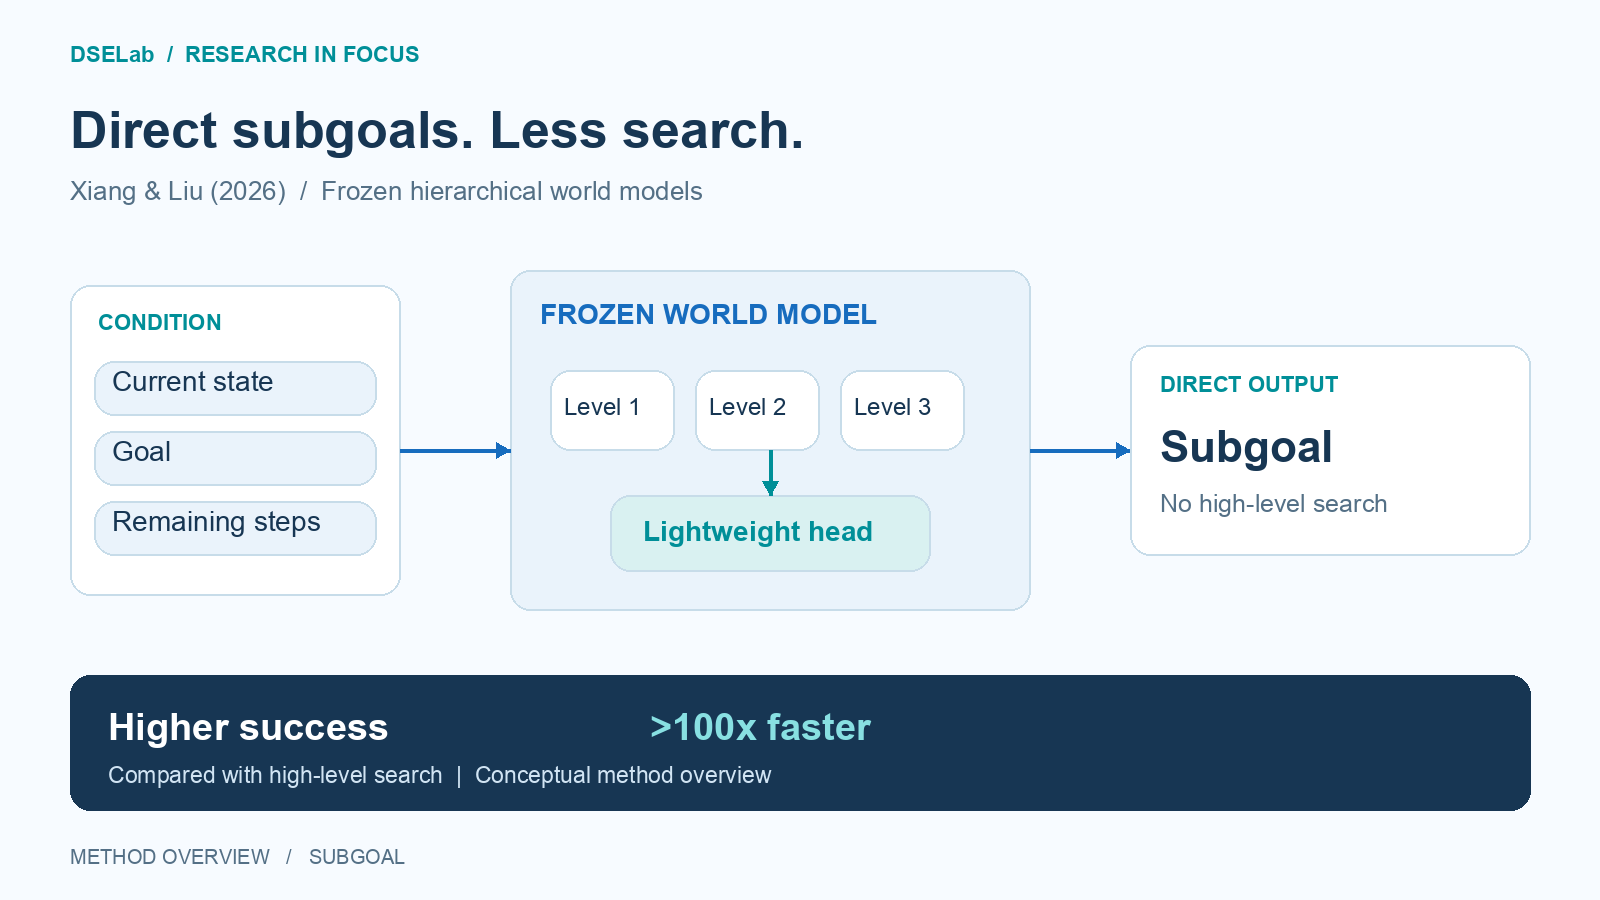
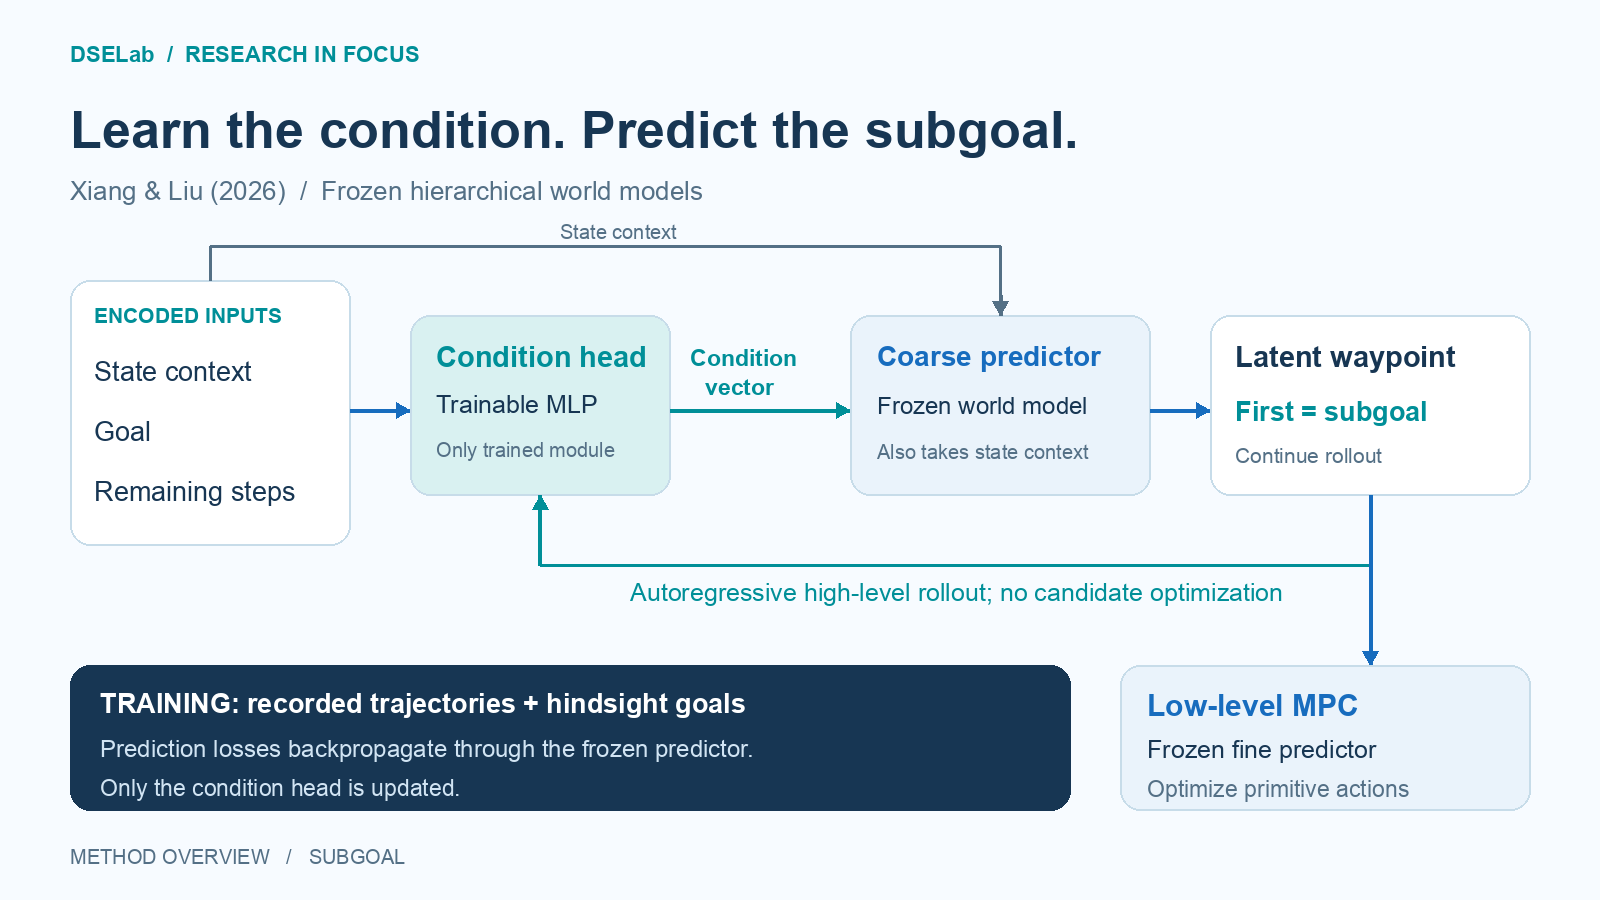
Correct subgoal diagram and speedup claims to match arXiv v2; remove title brackets

diff --git a/index.html b/index.html
@@ -780,8 +780,8 @@
           </div>
           <div class="latest-update" style="margin-top:14px; padding:12px 14px; border:1px solid var(--line); border-radius:12px; background:linear-gradient(135deg, rgba(14,165,233,0.12), rgba(34,197,94,0.08));">
             <strong>最新更新:</strong>
-            <div>2026/10/23　Xiang &amp; Liu の working paper「<a href="https://doi.org/10.48550/arXiv.2610.26179" class="pub-link" target="_blank" rel="noopener noreferrer">Learning Goal-Conditioned Subgoals through Frozen Hierarchical World Models</a>」を arXiv で公開（<a href="https://doi.org/10.48550/arXiv.2610.26179" class="pub-link">arXiv:2610.26179</a>）。</div>
-            <div>2026/10/22　Zhao &amp; Liu の論文「<a href="https://doi.org/10.1002/for.70236" class="pub-link" target="_blank" rel="noopener noreferrer">Time-Varying Structural Approximate Dynamic Factor Model</a>」が <i>Journal of Forecasting</i> に採択。</div>
+            <div>2026/10/23　Xiang &amp; Liu の working paper <a href="https://doi.org/10.48550/arXiv.2610.26179" class="pub-link" target="_blank" rel="noopener noreferrer">Learning Goal-Conditioned Subgoals through Frozen Hierarchical World Models</a>を arXiv で公開（<a href="https://doi.org/10.48550/arXiv.2610.26179" class="pub-link">arXiv:2610.26179</a>）。</div>
+            <div>2026/10/22　Zhao &amp; Liu の論文 <a href="https://doi.org/10.1002/for.70236" class="pub-link" target="_blank" rel="noopener noreferrer">Time-Varying Structural Approximate Dynamic Factor Model</a>が <i>Journal of Forecasting</i> に採択。</div>
             <a href="#papers" class="pub-link">最近の論文へ</a>
           </div>
         </div>
@@ -853,15 +853,15 @@
             </div>
           </article>
           <article class="paper-card">
-            <a class="paper-figure" href="Figures/papers/subgoal@2x.png" target="_blank" rel="noopener noreferrer" aria-label="凍結した階層世界モデルと軽量ヘッドで直接サブゴールを生成する概念図（大きな画像を開く）">
-              <img src="Figures/papers/subgoal.png" srcset="Figures/papers/subgoal@2x.png 2x" width="1600" height="900" loading="lazy" alt="凍結した階層世界モデルと軽量ヘッドで直接サブゴールを生成する概念図">
+            <a class="paper-figure" href="Figures/papers/subgoal@2x.png?v=2" target="_blank" rel="noopener noreferrer" aria-label="学習済み条件ヘッド、凍結高層予測器、自己回帰ロールアウト、低層MPCの情報フロー（大きな画像を開く）">
+              <img src="Figures/papers/subgoal.png?v=2" srcset="Figures/papers/subgoal@2x.png?v=2 2x" width="1600" height="900" loading="lazy" alt="学習済み条件ヘッド、凍結高層予測器、自己回帰ロールアウト、低層MPCの情報フロー">
               <span>クリックで拡大 ↗</span>
             </a>
             <div class="paper-body">
               <span class="paper-status">Working Paper</span>
               <h3>Learning Goal-Conditioned Subgoals through Frozen Hierarchical World Models</h3>
               <p class="paper-citation">Xiang, K. and Liu, Q. (2026). Learning Goal-Conditioned Subgoals through Frozen Hierarchical World Models. arXiv:2610.26179.</p>
-              <p>凍結した階層世界モデルに軽量ヘッドを加え、現在状態・目標・残りステップから直接サブゴールを生成し、高層探索に比べ成功率を高めながら100倍超の高速化を実現する。</p>
+              <p>状態・目標・残りステップから学習済みヘッドが条件ベクトルを出力し、凍結した高層予測器がサブゴールを生成することで高層探索を置き換え、低層MPCを維持しつつ高層求解時間を100倍超短縮し、端から端までの評価を1.28–4.39倍高速化する。</p>
               <a class="pub-link" href="https://doi.org/10.48550/arXiv.2610.26179" target="_blank" rel="noopener noreferrer">arXiv:2610.26179 / DOI ↗</a>
             </div>
           </article>

diff --git a/index_en.html b/index_en.html
@@ -785,15 +785,15 @@
             </div>
           </article>
           <article class="paper-card">
-            <a class="paper-figure" href="Figures/papers/subgoal@2x.png" target="_blank" rel="noopener noreferrer" aria-label="Conceptual diagram of direct subgoal generation with a frozen hierarchical world model and lightweight head (open full-size image)">
-              <img src="Figures/papers/subgoal.png" srcset="Figures/papers/subgoal@2x.png 2x" width="1600" height="900" loading="lazy" alt="Conceptual diagram of direct subgoal generation with a frozen hierarchical world model and lightweight head">
+            <a class="paper-figure" href="Figures/papers/subgoal@2x.png?v=2" target="_blank" rel="noopener noreferrer" aria-label="Information flow through the condition head, frozen coarse predictor, autoregressive rollout, and retained low-level MPC (open full-size image)">
+              <img src="Figures/papers/subgoal.png?v=2" srcset="Figures/papers/subgoal@2x.png?v=2 2x" width="1600" height="900" loading="lazy" alt="Information flow through the condition head, frozen coarse predictor, autoregressive rollout, and retained low-level MPC">
               <span>Click to enlarge ↗</span>
             </a>
             <div class="paper-body">
               <span class="paper-status">Working Paper</span>
               <h3>Learning Goal-Conditioned Subgoals through Frozen Hierarchical World Models</h3>
               <p class="paper-citation">Xiang, K. and Liu, Q. (2026). Learning Goal-Conditioned Subgoals through Frozen Hierarchical World Models. arXiv:2610.26179.</p>
-              <p>Adds a lightweight head to a frozen hierarchical world model to generate subgoals directly from the current state, goal, and remaining steps, achieving higher success rates and over 100× faster generation than high-level search.</p>
+              <p>A learned head supplies conditions to a frozen coarse predictor that generates subgoals, replacing high-level search while retaining low-level MPC; batched evaluations reduce high-level solver time by over 100× and achieve 1.28–4.39× end-to-end speedups.</p>
               <a class="pub-link" href="https://doi.org/10.48550/arXiv.2610.26179" target="_blank" rel="noopener noreferrer">arXiv:2610.26179 / DOI ↗</a>
             </div>
           </article>

diff --git a/Figures/papers/src/render.py b/Figures/papers/src/render.py
@@ -24,19 +24,48 @@ def render(kind, scale):
         pts=[(x2,y2),(x2-16*math.cos(a-.5),y2-16*math.sin(a-.5)),(x2-16*math.cos(a+.5),y2-16*math.sin(a+.5))]
         d.polygon([xy(p) for p in pts],fill=color)
     text(70,42,'DSELab  /  RESEARCH IN FOCUS',22,TEAL,True)
-    titles={'subgoal':('Direct subgoals. Less search.','Xiang & Liu (2026)  /  Frozen hierarchical world models'), 'tvs-adf':('Changing structure. Dynamic forecasts.','Zhao & Liu (2026)  /  Time-varying structural approximate dynamic factor model'), 'tmle':('Long histories help short series.','Iwasawa, Liu & Zhao (2026)  /  Tying maximum likelihood estimation'), 'model-averaging':('Choose weights for the loss that matters.','Gu, Liu & Zhang (2025)  /  Model averaging under flexible loss functions')}
+    titles={'subgoal':('Learn the condition. Predict the subgoal.','Xiang & Liu (2026)  /  Frozen hierarchical world models'), 'tvs-adf':('Changing structure. Dynamic forecasts.','Zhao & Liu (2026)  /  Time-varying structural approximate dynamic factor model'), 'tmle':('Long histories help short series.','Iwasawa, Liu & Zhao (2026)  /  Tying maximum likelihood estimation'), 'model-averaging':('Choose weights for the loss that matters.','Gu, Liu & Zhang (2025)  /  Model averaging under flexible loss functions')}
     title,sub=titles[kind]; text(70,100,title,52,bold=True); text(70,176,sub,26,MUTED)
     if kind=='subgoal':
-        box(70,285,330,310); text(98,310,'CONDITION',22,TEAL,True)
-        for y,t in [(365,'Current state'),(435,'Goal'),(505,'Remaining steps')]:
-            box(94,y-4,282,54,LIGHT); text(112,y,t,28)
-        box(510,270,520,340,LIGHT); text(540,298,'FROZEN WORLD MODEL',28,BLUE,True)
-        for i in range(3):
-            box(550+i*145,370,124,80); text(564+i*145,393,'Level '+str(i+1),24)
-        box(610,495,320,76,'#d9f1f1'); text(643,515,'Lightweight head',28,TEAL,True)
-        arrow(400,450,510,450); arrow(770,450,770,495,TEAL); arrow(1030,450,1130,450)
-        box(1130,345,400,210); text(1160,372,'DIRECT OUTPUT',22,TEAL,True); text(1160,422,'Subgoal',44,bold=True); text(1160,489,'No high-level search',25,MUTED)
-        box(70,675,1460,135,'#173653',NAVY); text(108,705,'Higher success',38,'white',True); text(650,705,'>100x faster',38,'#88e0e2',True); text(108,762,'Compared with high-level search  |  Conceptual method overview',23,'#d1e4f3')
+        # arXiv:2610.26179v2, Figures 1-2 and Sections 3.2-3.4.
+        # The trainable head emits a condition, never a direct latent subgoal.
+        box(70,280,280,265)
+        text(94,303,'ENCODED INPUTS',21,TEAL,True)
+        for y,t in [(356,'State context'),(416,'Goal'),(476,'Remaining steps')]:
+            text(94,y,t,27)
+        arrow(350,410,410,410)
+        box(410,315,260,180,'#d9f1f1')
+        text(436,340,'Condition head',29,TEAL,True)
+        text(436,390,'Trainable MLP',25)
+        text(436,438,'Only trained module',20,MUTED)
+        arrow(670,410,850,410,TEAL)
+        text(690,345,'Condition',23,TEAL,True)
+        text(705,374,'vector',23,TEAL,True)
+        box(850,315,300,180,LIGHT)
+        text(877,340,'Coarse predictor',28,BLUE,True)
+        text(877,392,'Frozen world model',24)
+        text(877,440,'Also takes state context',20,MUTED)
+        # State context also enters the frozen coarse predictor directly.
+        line([(210,280),(210,246),(1000,246),(1000,295)],MUTED,3)
+        arrow(1000,295,1000,315,MUTED)
+        text(560,220,'State context',20,MUTED)
+        arrow(1150,410,1210,410)
+        box(1210,315,320,180)
+        text(1235,340,'Latent waypoint',29,bold=True)
+        text(1235,396,'First = subgoal',27,TEAL,True)
+        text(1235,443,'Continue rollout',21,MUTED)
+        line([(1370,495),(1370,565),(540,565)],TEAL,3)
+        arrow(540,565,540,495,TEAL)
+        text(630,578,'Autoregressive high-level rollout; no candidate optimization',25,TEAL)
+        arrow(1370,495,1370,665)
+        box(70,665,1000,145,NAVY,NAVY)
+        text(100,688,'TRAINING: recorded trajectories + hindsight goals',27,'white',True)
+        text(100,735,'Prediction losses backpropagate through the frozen predictor.',24,'#d1e4f3')
+        text(100,775,'Only the condition head is updated.',23,'#d1e4f3')
+        box(1120,665,410,145,LIGHT)
+        text(1147,688,'Low-level MPC',30,BLUE,True)
+        text(1147,735,'Frozen fine predictor',25)
+        text(1147,776,'Optimize primitive actions',23,MUTED)
     elif kind=='tvs-adf':
         for x,label in [(70,'Observed series'),(580,'Time-varying loadings'),(1090,'Structural forecast')]:
             box(x,285,440,350); text(x+26,310,label,29,bold=True)
